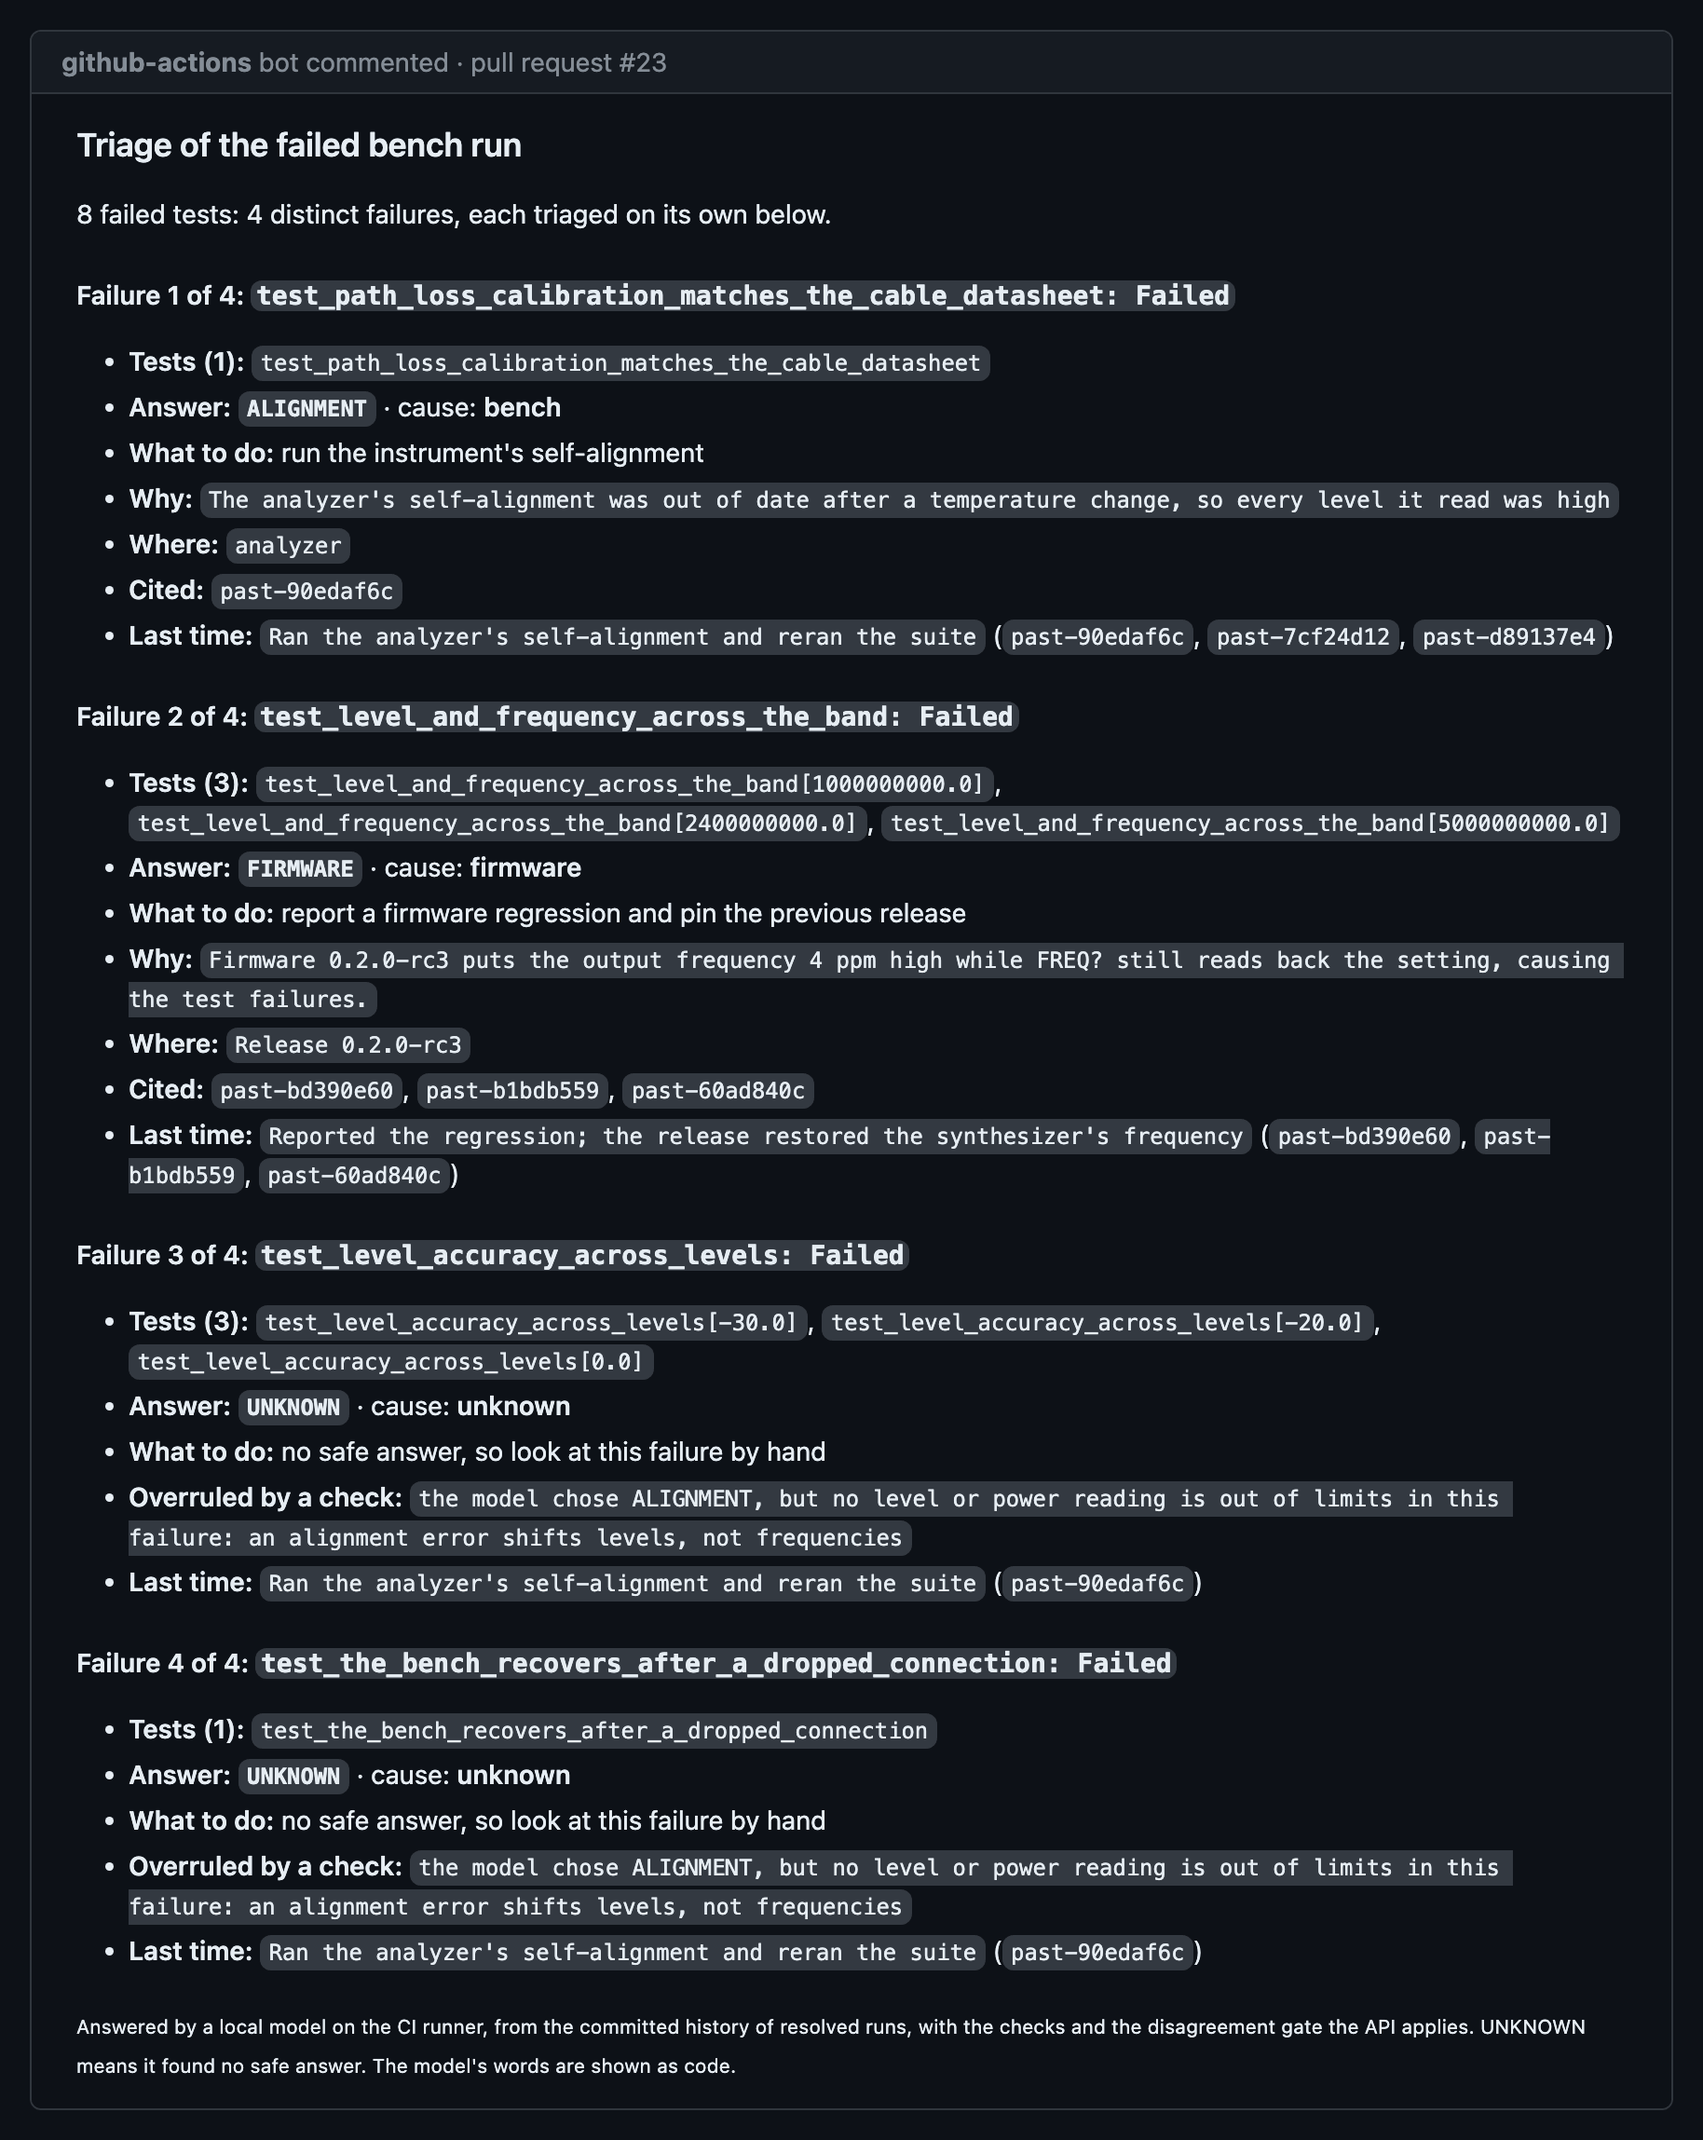
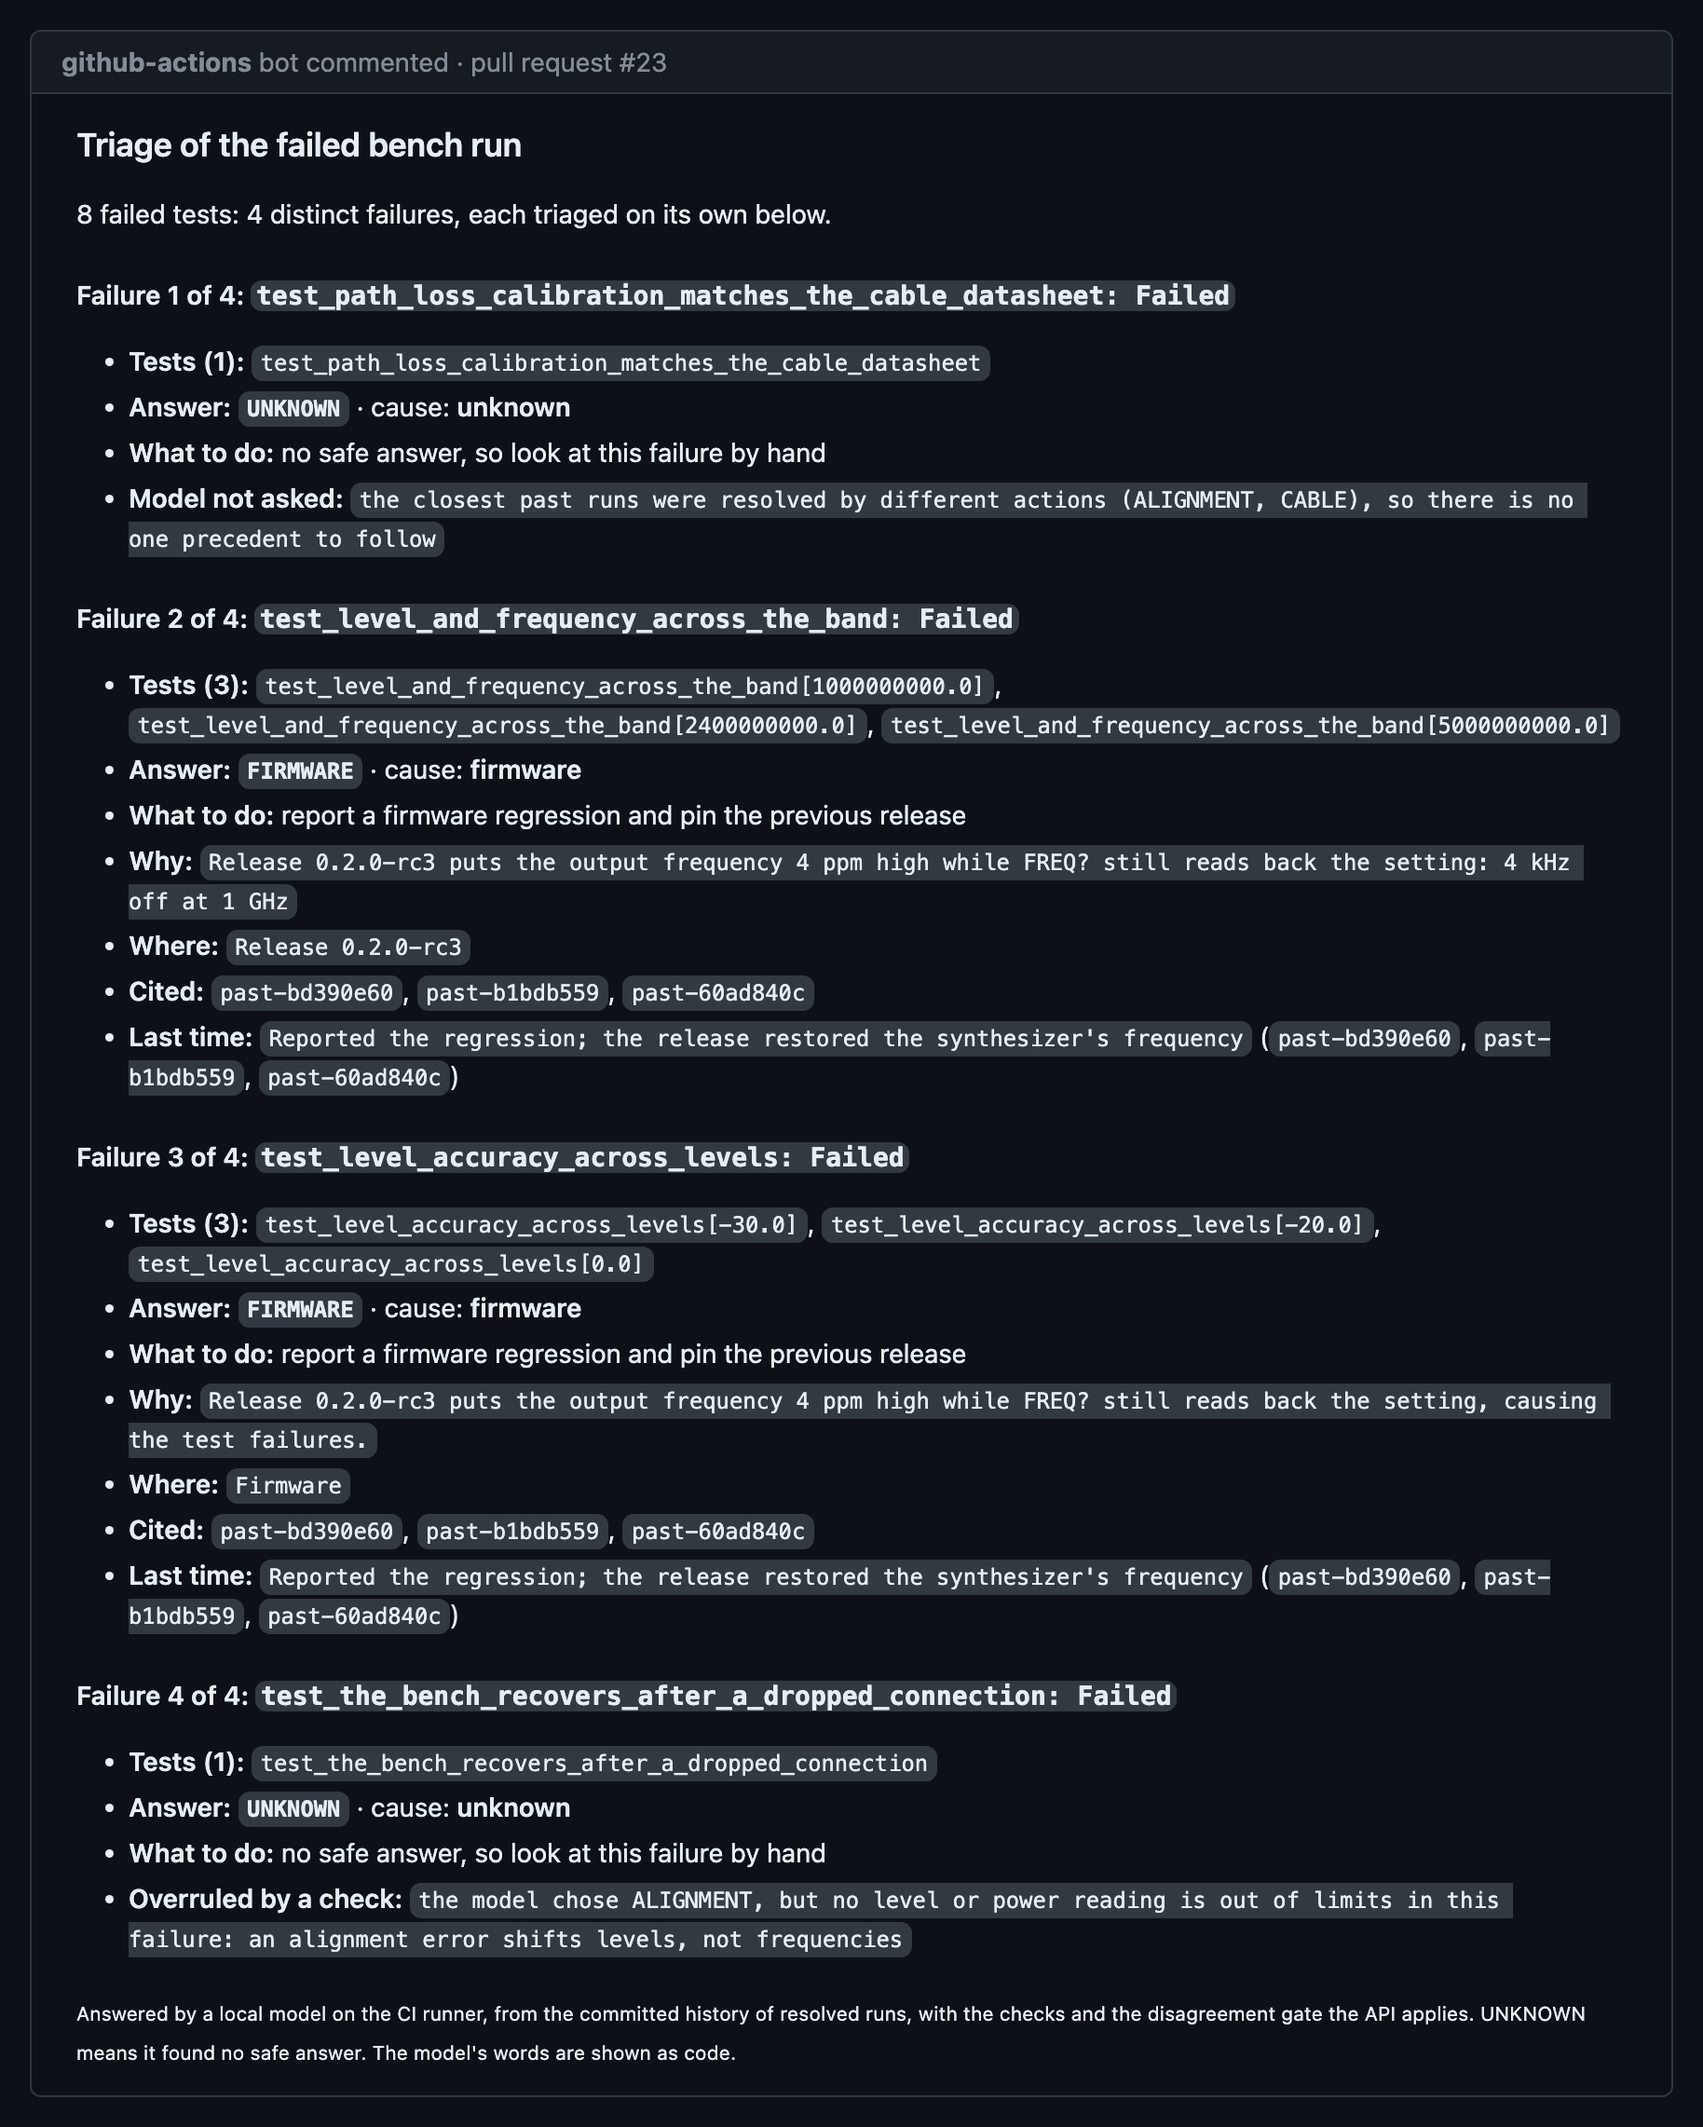
docs: screenshot of the latest per-failure CI comment, and both CI runs in ADR 0020
The second run of the same two faults answered differently: path loss UNKNOWN (its closest
past runs were an alignment and a cable loss), two frequency failures FIRMWARE, one
ALIGNMENT refused by the check. Both runs: 2 right, 2 UNKNOWN, none wrong.

Changed region(s): [[0.0312, 0.0933, 0.9666, 0.933], [0.0624, 0.0933, 0.1247, 0.1244]]

diff --git a/README.md b/README.md
@@ -67,10 +67,10 @@ retrieval does most of the work, and the gate is what keeps it from being confid
 <p align="center">
   <picture>
     <source media="(prefers-color-scheme: dark)" srcset="docs/images/ci-triage-comment-dark.png">
-    <img src="docs/images/ci-triage-comment-light.png" width="760" alt="The triage section of a pull request comment for a bench run with two injected faults, release 0.2.0-rc3 (frequency 4 ppm high) and a 3 dB analyzer alignment error. 8 failed tests form 4 distinct failures, each with its own block. Failure 1, path loss: ALIGNMENT, run the instrument's self-alignment, as three past runs did. Failure 2, level and frequency across the band: FIRMWARE, report a firmware regression and pin the previous release, as three past runs did. Failures 3 and 4, level accuracy and recovery after a dropped connection: the model chose ALIGNMENT and a check refused it, since no level or power reading failed, so the answer is UNKNOWN and the advice is to look by hand.">
+    <img src="docs/images/ci-triage-comment-light.png" width="760" alt="The triage section of a pull request comment for a bench run with two injected faults, release 0.2.0-rc3 (frequency 4 ppm high) and a 3 dB analyzer alignment error. 8 failed tests form 4 distinct failures, each with its own block saying what to do. Failure 1, path loss: UNKNOWN, the model was not asked because the closest past runs were fixed differently (ALIGNMENT and CABLE). Failures 2 and 3, level and frequency across the band and level accuracy: FIRMWARE, report a firmware regression and pin the previous release, as three past runs did. Failure 4, recovery after a dropped connection: the model chose ALIGNMENT and a check refused it, since no level or power reading failed, so the answer is UNKNOWN and the advice is to look by hand.">
   </picture>
 </p>
-<p align="center"><sub>The comment on a CI run with two unrelated faults at once (ADR 0020).</sub></p>
+<p align="center"><sub>The comment on a CI run with two unrelated faults at once: two failures solved, two left to a person, none wrong (ADR 0020).</sub></p>
 
 ## 2 · Data
 

diff --git a/docs/adr/0020-triage-each-distinct-failure.md b/docs/adr/0020-triage-each-distinct-failure.md
@@ -51,11 +51,14 @@ one model prompt, which takes 20 to 60 s on a CPU runner.
 
 ## Consequences
 
-- In CI, with both faults again (run 43006883624), the 8 failed tests formed 4 failures:
-  path loss answered `ALIGNMENT` and the first frequency failure `FIRMWARE`, both right and
-  both quoting their own fault's past fix. The model answered `ALIGNMENT` on the other two
-  frequency failures, and the new check turned both into `UNKNOWN`. The README shows the
-  comment.
+- In CI, with both faults again, the 8 failed tests formed 4 failures in two runs, with
+  2 right answers, 2 `UNKNOWN` and none wrong each time. Run 43006883624: path loss
+  `ALIGNMENT` and one frequency failure `FIRMWARE`, both quoting their own fault's past
+  fix; the model chose `ALIGNMENT` on the other two, and the new check refused both. Run
+  43008404971: path loss `UNKNOWN`, its closest past runs being an alignment and a cable
+  loss; two frequency failures `FIRMWARE`; one `ALIGNMENT` refused by the check. Which past
+  runs are closest moves with each run's readings, so the same faults can get different
+  answers. The README shows the second run's comment.
 
 - The HTTP API still returns one verdict, for the first failure. A per-failure answer there
   is planned.

diff --git a/docs/ROADMAP.md b/docs/ROADMAP.md
@@ -93,8 +93,9 @@
   no test. In CI, a run with two unrelated faults (release `0.2.0-rc3`, frequency 4 ppm
   high, plus a 3 dB alignment error) had its frequency failures answered `ALIGNMENT`, pulled
   by the analyzer's alignment warning, and one answered `UNKNOWN` by the gate; none got
-  `FIRMWARE`. A check now refuses `ALIGNMENT` without a failed level reading: on the same
-  faults, one frequency failure is now `FIRMWARE` and two are `UNKNOWN` (ADR 0020).
+  `FIRMWARE`. A check now refuses `ALIGNMENT` without a failed level reading: in two more
+  runs of the same faults, 2 of 4 failures were right and 2 `UNKNOWN`, but which two
+  changed from run to run (ADR 0020).
 - Every command in a compound line needs its full path: `CALC:MARK:X?;Y?`, which real
   instruments accept, gives -113 for `Y?`. The drivers always send full paths.
 - RsInstrument leaves a socket open when a connection is refused, so Python reports a
